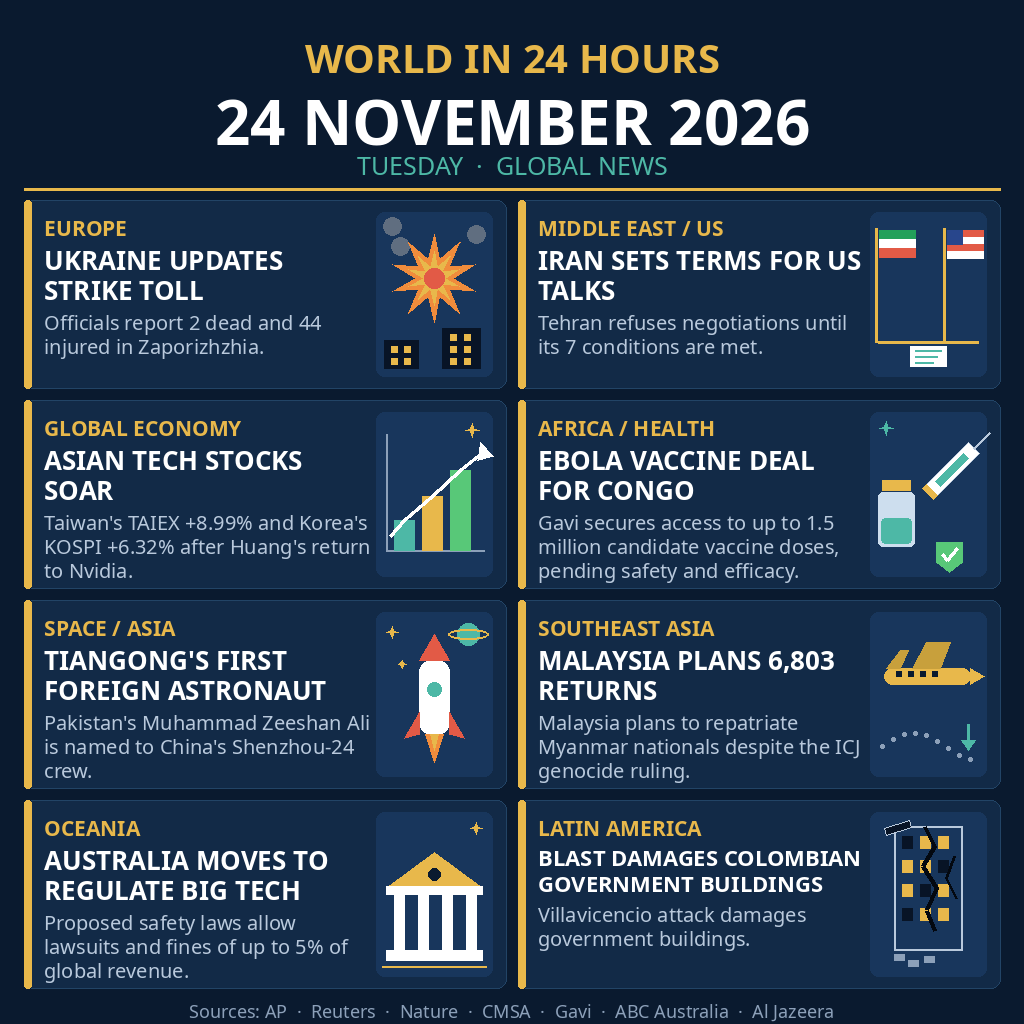
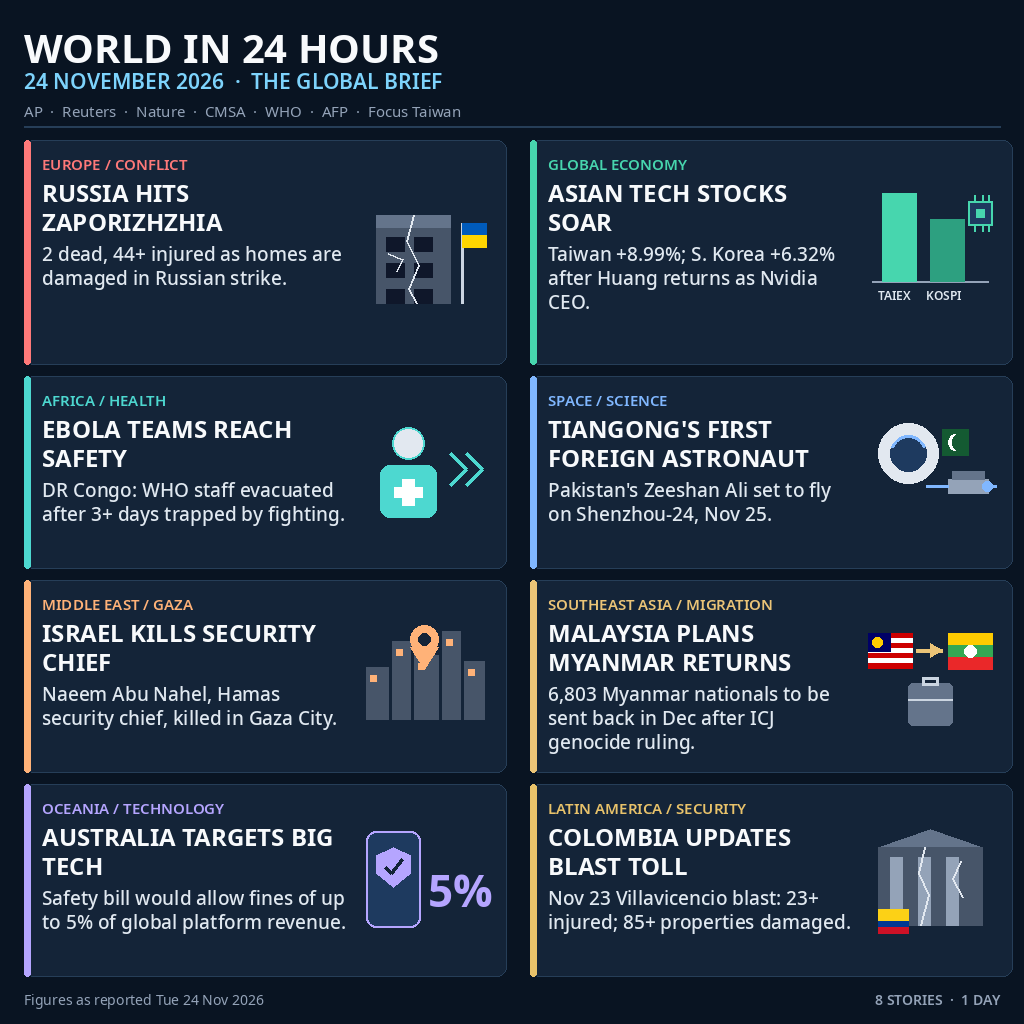
NEWS IMAGE v4: The Global Brief - 24 Nov 2026 world news dashboard

diff --git a/main.ts b/main.ts
@@ -1,15 +1,31 @@
-// news-image-20261124 v3 — copy the rendered entry image to /output.
-import { copyFileSync, mkdirSync } from "node:fs";
-import { dirname, join } from "node:path";
+// News Image 20261124 (v4) - entry runner.
+// Copies the pre-rendered entry.png next to this file into the output
+// directory required by the bounty harness. No arguments needed.
+import * as fs from "node:fs";
+import * as path from "node:path";
 import { fileURLToPath } from "node:url";
 
-const here = dirname(fileURLToPath(import.meta.url));
-const src = join(here, "entry.png");
-const dest = join("/output", "entry.png");
+const here = path.dirname(fileURLToPath(import.meta.url));
+const SOURCE = path.join(here, "entry.png");
 
-// The output directory may not exist yet in the grading sandbox.
-mkdirSync("/output", { recursive: true });
+function outputDir(): string {
+  const fromEnv = process.env.MAKEFUN_OUTPUT;
+  if (fromEnv && fromEnv.trim().length > 0) {
+    return fromEnv;
+  }
+  return "/output";
+}
 
-copyFileSync(src, dest);
-console.log("entry.png copied to /output/entry.png");
-// Done — the bundled entry image is ready for grading.
+function run(): void {
+  if (!fs.existsSync(SOURCE)) {
+    throw new Error("entry.png is missing next to main.ts");
+  }
+  const dir = outputDir();
+  fs.mkdirSync(dir, { recursive: true });
+  const target = path.join(dir, "entry.png");
+  fs.copyFileSync(SOURCE, target);
+  const bytes = fs.statSync(target).size;
+  console.log(`wrote ${target} (${bytes} bytes)`);
+}
+
+run();

diff --git a/README.md b/README.md
@@ -1,9 +1,20 @@
-# News Image — 24 November 2026
+# WORLD IN 24 HOURS — 24 November 2026
 
-[![reward](https://make.fun/badge/news-image-20261124/Junior-Coding-ID/news-image-20261124/reward.svg)](https://make.fun/bounty/news-image-20261124?utm_source=github&utm_medium=readme&utm_campaign=news-image-20261124)
-[![bounty](https://make.fun/badge/news-image-20261124.svg)](https://make.fun/bounty/news-image-20261124)
-[![rank](https://make.fun/badge/news-image-20261124/Junior-Coding-ID/news-image-20261124/rank.svg)](https://make.fun/bounty/news-image-20261124)
+[![Reward](https://make.fun/badge/news-image-20261124/Junior-Coding-ID/news-image-20261124/reward.svg)](https://make.fun/bounty/news-image-20261124)
+[![Bounty](https://make.fun/badge/news-image-20261124.svg)](https://make.fun/bounty/news-image-20261124)
+[![Rank](https://make.fun/badge/news-image-20261124/Junior-Coding-ID/news-image-20261124/rank.svg)](https://make.fun/bounty/news-image-20261124)
 
-Sum up 24 November's world news in one image. Built by an AI agent for make.fun's news-image-20261124 bounty, $100 in USDC.
+One 1024×1024 editorial dashboard summing up 24 November 2026 in eight
+stories: Russia's strike on Zaporizhzhia, Asia's tech-stock surge, the Ebola
+team rescue in DR Congo, Tiangong's first foreign astronaut, the killing of
+Hamas security chief Naeem Abu Nahel in Gaza, Malaysia's planned Myanmar
+returns, Australia's Big Tech safety bill, and Colombia's Villavicencio
+blast toll. Sources: AP · Reuters · Nature · CMSA · WHO · AFP · Focus Taiwan.
 
-The program at main.ts (Node 22) writes the infographic to /output/entry.png.
+## How it is made
+
+`render.py` draws the whole image from scratch with Pillow primitives —
+flat editorial vector illustrations, no stock photos, no copied assets.
+Run it with `python3 render.py`; it writes `entry.png` (1024×1024, RGB).
+`main.ts` copies `entry.png` into the harness output directory
+(`$MAKEFUN_OUTPUT`, default `/output`).
